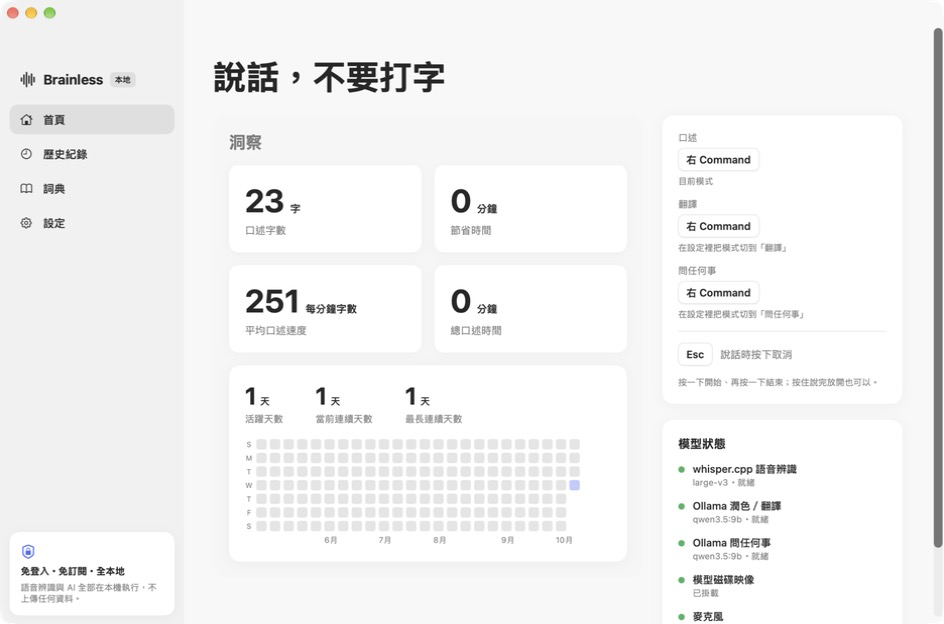
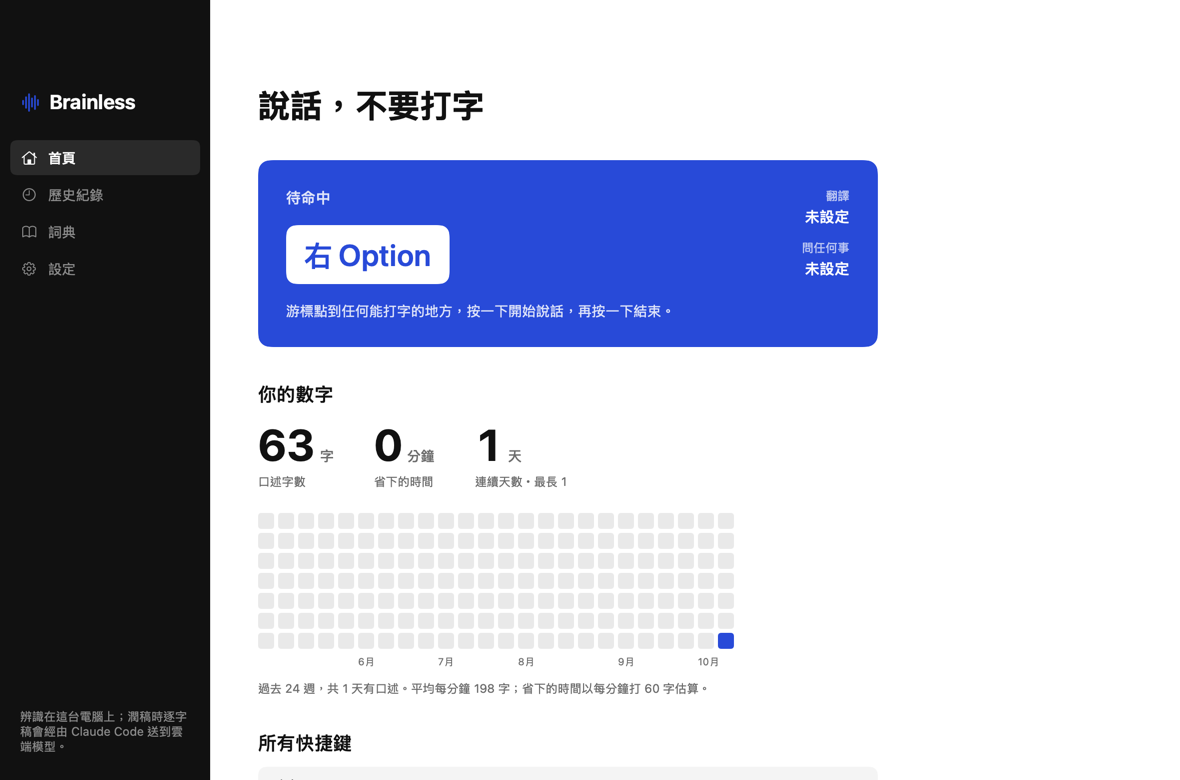
Rewrite README for the fork and add copyright line for fork changes
Documents the agent CLI backends and what they send off-device, per-mode
shortcuts, Typeless import, DMG releases and the SDK workaround, credits
the upstream project, and keeps the original MIT notice intact.

diff --git a/README.md b/README.md
@@ -1,6 +1,10 @@
 # Brainless
 
-**說話，不要打字。** macOS 語音聽寫 App：按一下快捷鍵說話，再按一下，整理好的文字就出現在游標那裡。語音辨識用 Whisper large-v3（whisper.cpp，Metal），在本機跑；潤稿用你電腦上已登入的 AI agent CLI（Claude Code 的 `claude -p` 或 Codex 的 `codex exec`），想完全離線也可以改用 Ollama 跑 Qwen。
+**說話，不要打字。** macOS 語音聽寫 App：按一下快捷鍵說話，再按一下，整理好的文字就出現在游標那裡。
+
+語音辨識用 Whisper large-v3（whisper.cpp，Metal），一律在本機跑。潤稿、翻譯和「問任何事」交給你電腦上已登入的 AI agent CLI（Claude Code 的 `claude -p`、Codex 的 `codex exec`）；想完全離線，也可以改用 Ollama 跑 Qwen。
+
+> Fork 自 [austin17022/brainless](https://github.com/austin17022/brainless)。這個 fork 加了 agent CLI 潤稿後端、每個模式各自的快捷鍵（含組合鍵）、從 Typeless 匯入詞典，並重新設計了主視窗。
 
 [English below](#english)
 
@@ -9,47 +13,63 @@
 ## 它會做什麼
 
 - **聽寫**：口語變成乾淨的文字，去掉「嗯」「那個」，補標點，簡體自動轉繁體。
-- **翻譯**：說中文，貼出英文、日文或韓文。
+- **翻譯**：說中文，貼出英文、日文、韓文或繁體中文。
 - **問任何事**：先選一段文字，再用說的下指令（改客氣一點、縮短、翻成英文），結果直接取代選取的文字。
-- **詞典**：把常講的專有名詞、人名、公司名放進去，辨識和潤稿會優先用這些寫法。
-- **歷史紀錄**：每次聽寫的結果都在本機，可複製、重新潤稿、刪除。
+- **每個模式各自的快捷鍵**：聽寫、翻譯、問任何事各自可以設好幾組，按哪一組就用哪個模式。
+- **詞典**：常講的專有名詞、人名、公司名放進去，辨識和潤稿會優先用這些寫法。可以從 Typeless 或文字／CSV／JSON 檔匯入。
+- **歷史紀錄**：每次聽寫的結果都存在本機，可複製、重新潤稿、刪除。
 - 任何 App 都能用（透過剪貼簿貼上，貼完會把原本的剪貼簿還原）。
 
 ## 需求
 
-- Apple Silicon Mac，macOS 14 以上，記憶體 16 GB 以上（建議 32 GB）。
+- Apple Silicon Mac，macOS 14 以上，記憶體 16 GB 以上。
 - 一個麥克風（Mac mini 沒有內建）。
-- 硬碟空間約 3.5 GB（Whisper 模型 3.1 GB）；改用 Ollama 潤稿的話再加約 7.6 GB（Qwen 3.5 9B）。
-- 潤稿需要下列其中一個：已登入的 [Claude Code](https://code.claude.com/docs/en/quickstart) 或 [Codex CLI](https://github.com/openai/codex)，或 [Ollama](https://ollama.com/download)。
+- 硬碟空間約 3.5 GB（Whisper 模型 3.1 GB）。
+- 潤稿需要下列其中一個：
+  - 已登入的 [Claude Code](https://code.claude.com/docs/en/quickstart)
+  - 已登入的 [Codex CLI](https://github.com/openai/codex)
+  - [Ollama](https://ollama.com/download)（另需約 7.6 GB 放 Qwen 3.5 9B，建議 32 GB 記憶體）
 
 ## 安裝
 
-1. 到 [Releases](../../releases) 下載 `Brainless-x.y.z.zip`，解壓縮後把 `Brainless.app` 拖進「應用程式」。
-2. 第一次打開：在 Finder 對 Brainless.app **按右鍵 › 打開**（這個版本沒有 Apple 開發者簽章，直接雙擊會被擋）。
-3. 依照系統提示允許**麥克風**，並到 系統設定 › 隱私權與安全性 › **輔助使用** 打開 Brainless。
+1. 到這個 repo 的 [Releases](../../releases) 下載 `Brainless-x.y.z.dmg`，打開後把 `Brainless.app` 拖到「應用程式」。還沒有 Release 的話，照下方「[自己編譯](#自己編譯)」做。（上游的 [Releases](https://github.com/austin17022/brainless/releases) 是原版，沒有這個 fork 的功能。）
+2. 第一次打開：在 Finder 對 Brainless.app **按右鍵 › 打開**（沒有 Apple 開發者簽章，直接雙擊會被擋）。
+3. 依照系統提示允許**麥克風**，並到 系統設定 › 隱私權與安全性 › **輔助使用** 打開 Brainless（沒有這個權限，快捷鍵不會有反應）。
 4. 主視窗會列出還缺什麼：
    - 安裝 whisper.cpp：在終端機執行 `brew install whisper-cpp`（需要 [Homebrew](https://brew.sh)）。
    - 按「下載 Whisper 模型」（3.1 GB）。
-   - 潤稿：裝好 Claude Code 或 Codex CLI 並登入一次，App 會自動偵測；兩個都沒有的話，安裝 [Ollama](https://ollama.com/download) 並按「下載 qwen3.5:9b」（約 7.6 GB）。
+   - 潤稿：裝好 Claude Code 或 Codex CLI 並登入一次，App 會自動偵測；都沒有的話，安裝 Ollama 再按「下載 qwen3.5:9b」。
 5. 燈都綠了，游標點到任何可以打字的地方，按一下快捷鍵（預設右 Option），說話，再按一下。
 
 ## 快捷鍵
 
-預設右 Option（Windows 鍵盤上是右邊的 Alt）。設定頁可以改成右 Command、右 Control、Fn、F18、F19，或按「自訂」然後按下任何你想用的鍵。按一下開始、再按一下結束；按住說完放開也可以；說話中按 Esc 取消。
+設定 › 快捷鍵，每個模式都可以「再加一組」，然後直接按下想用的鍵：
 
-## 麥克風保持喚醒
+- 幾顆修飾鍵一起按：`左 Shift＋左 Option`
+- 修飾鍵加一顆鍵：`左 Option＋Space`
+- 單一鍵：`F18`、`右 Option`
 
-USB 麥克風閒置幾分鐘就會被 macOS 休眠，醒來的前兩三秒是靜音。設定頁的「麥克風保持喚醒」預設「一直開著」，隨按隨有聲音；代價是選單列會有橘色麥克風點（沒按快捷鍵時不存、不送任何聲音）。可以改成「用完後再撐 10 分鐘」或「用完就關」。
+按一下開始、再按一下結束；按住說完放開也可以；說話中按 Esc 取消。比對是精確的：`左 Option` 和 `左 Shift＋左 Option` 可以分給兩個模式，按住 Option 時會等 0.2 秒看你是不是還要按 Shift；這段時間內打 ⌥＋字母（例如輸入特殊字元）不會觸發錄音。
 
 ## 潤稿後端
 
-設定頁「潤稿後端」預設「自動」，依序用偵測到的第一個：Claude Code → Codex → Ollama。偵測方式比照 `ollama launch`：先找 PATH（App 會向你的登入 shell 要 PATH，所以 nvm、`~/.local/bin` 裡的也找得到），再找各家的預設安裝位置。
+設定 › 潤稿 預設「自動」，依序用偵測到的第一個：Claude Code → Codex → Ollama。偵測方式比照 `ollama launch`：先找 PATH（App 會向你的 shell 要 PATH，所以 nvm、`~/.local/bin` 裡的也找得到），再找各家的預設安裝位置。
 
-- **Claude Code**：`claude -p`，預設模型 `haiku`，不開任何工具、不讀你的設定檔與 MCP、不留 session。一次約 3–8 秒。
-- **Codex**：`codex exec`，唯讀沙箱、不留 session、reasoning effort 設為 low；模型留空就用 `~/.codex/config.toml` 的設定。一次約 5–8 秒。
-- **Ollama**：本機跑 Qwen，模型常駐的話不到一秒，完全不連網。
+| 後端 | 怎麼呼叫 | 一次大約 |
+|---|---|---|
+| Claude Code | `claude -p`，預設模型 `haiku`；不給任何工具、不讀你的設定檔與 MCP、不留 session | 2–8 秒 |
+| Codex | `codex exec`，唯讀沙箱、不留 session、reasoning effort low；模型留空就用 `~/.codex/config.toml` | 5–8 秒 |
+| Ollama | 本機 HTTP API，模型常駐的話 | 1 秒內 |
 
 agent 在一個空資料夾（`~/Library/Application Support/Whispry/agent-workdir`）裡執行，讀不到任何專案檔。用量算在你自己的 Claude／ChatGPT 帳號上。
+
+## 從 Typeless 匯入詞典
+
+詞典 › 從 Typeless 匯入。Typeless 的詞典只存在它的雲端，Brainless 讀的是 Typeless 本機 HTTP 快取裡最近一次的詞典回應，不碰它的登入憑證；畫面上會顯示快取的時間。想要最新的清單，先在 Typeless 打開一次詞典頁再匯入。也可以用「從檔案匯入…」選文字檔（換行、逗號、頓號分隔）、CSV 或 JSON。
+
+## 麥克風保持喚醒
+
+USB 麥克風閒置幾分鐘就會被 macOS 休眠，醒來的前兩三秒是靜音。設定頁的「麥克風」預設「一直開著」，隨按隨有聲音；代價是選單列會有橘色麥克風點（沒按快捷鍵時不存、不送任何聲音）。可以改成「用完後再撐 10 分鐘」或「用完就關」。
 
 ## 模型放哪裡
 
@@ -70,14 +90,42 @@ App 啟動時會自動掛載。Ollama 的模型目錄請自行用 symlink 指到
 cp -R build/Brainless.app /Applications/
 ```
 
-程式結構：`Sources/` 下 `AppController`（狀態機與選單）、`HotkeyMonitor`（CGEventTap）、`AudioRecorder`（AVAudioEngine → 16 kHz WAV）、`WhisperServer`（whisper-server 子程序 + HTTP）、`RefineService`（潤稿後端切換）、`AgentCLI`（偵測與呼叫 claude／codex）、`OllamaClient`、`TextInserter`（剪貼簿 + ⌘V）、`OverlayPanel`（浮條）、`HubView` / `SetupViews`（SwiftUI 主視窗）、`Stores`（歷史、詞典）、`ModelSetup`（下載）、`VolumeManager`。
+Command Line Tools 附的 macOS 27 SDK 少了 SwiftUI 的 macro plugin，編譯會停在 `@State`。遇到的話改用 26.5 SDK：
+
+```
+SDK=/Library/Developer/CommandLineTools/SDKs/MacOSX26.5.sdk ./build.sh
+```
+
+打包成 DMG（版本號取自 `Info.plist` 的 `CFBundleShortVersionString`，`AppInfo.version` 也讀這裡）：
+
+```
+./release.sh              # 產生 build/Brainless-<版本>.dmg 並印出 SHA-256
+./release.sh --publish    # 另外用 gh 建立 GitHub Release v<版本>，附上 DMG
+```
+
+`--publish` 遇到已經存在的 tag 或 Release 會停下來，先把 `Info.plist` 的版本號往上加。
+
+程式結構（`Sources/`）：
+
+| 檔案 | 內容 |
+|---|---|
+| `AppController` | 狀態機、選單列 |
+| `HotkeyMonitor`、`Shortcuts` | CGEventTap、每個模式的快捷鍵與比對 |
+| `AudioRecorder` | AVAudioEngine → 16 kHz WAV |
+| `WhisperServer` | whisper-server 子程序 + HTTP |
+| `Refiner`、`AgentCLI`、`OllamaClient` | 潤稿後端切換、偵測與呼叫 claude／codex、Ollama |
+| `TextInserter` | 剪貼簿 + ⌘V |
+| `OverlayPanel` | 螢幕下方的浮條 |
+| `HubView`、`SetupViews`、`HubWindow` | SwiftUI 主視窗 |
+| `Stores`、`DictionaryImport` | 歷史、詞典、Typeless／檔案匯入 |
+| `ModelSetup`、`VolumeManager` | 模型下載、磁碟映像 |
 
 內部識別碼是 `app.whispry.mac`（專案原名 Whispry，為了不弄掉已授權的權限而保留）。簽章是 ad-hoc 加固定的 designated requirement，重新編譯不會讓輔助使用權限失效。
 
 ## 隱私
 
 - 聲音只送到本機的 `127.0.0.1:8178`（whisper-server），只聽本機。錄音檔辨識完就刪掉。
-- **潤稿用 Claude Code 或 Codex 時，辨識出來的文字（以及「問任何事」選取的文字）會透過該 CLI 送到 Anthropic／OpenAI 的雲端模型。** 要完全不離開這台電腦，請在設定頁把潤稿後端改成 Ollama（`127.0.0.1:11434`）。
+- **潤稿用 Claude Code 或 Codex 時，辨識出來的文字（以及「問任何事」選取的文字）會透過該 CLI 送到 Anthropic／OpenAI 的雲端模型。** 要完全不離開這台電腦，請在設定頁把潤稿後端改成 Ollama（`127.0.0.1:11434`）。主視窗左下角會顯示目前是哪一種。
 - 歷史紀錄與詞典存在 `~/Library/Application Support/Whispry/`，檔案權限 600。
 - 記錄檔不存逐字稿內容，只記字數與耗時。
 - App 本身沒有任何網路回報、沒有帳號、沒有訂閱。
@@ -87,21 +135,28 @@ cp -R build/Brainless.app /Applications/
 - 單次最長 10 分鐘。
 - 不吃 ⌘V 的 App（例如某些終端機）貼不上，可從選單「複製上一次的結果」手動貼。
 - 沒有 Apple 開發者簽章，第一次要右鍵打開。
+- 用 agent CLI 潤稿比 Ollama 常駐慢（每次多幾秒的 CLI 啟動與網路往返）。
 
 ---
 
 ## English
 
-**Speak, don't type.** A voice dictation app for macOS. Press a hotkey, talk, press again, and polished text lands at your cursor. Speech recognition runs locally on Whisper large-v3 (whisper.cpp, Metal). Cleanup, translation and "ask anything" run through a locally installed AI agent CLI (`claude -p` or `codex exec`, auto-detected the same way `ollama launch` finds integrations), or fully offline on Qwen via Ollama.
+**Speak, don't type.** A voice dictation app for macOS. Press a hotkey, talk, press again, and polished text lands at your cursor.
 
-**Features**: dictation with filler-word removal and punctuation, translation (zh → en/ja/ko), "ask anything" on selected text, a personal dictionary that steers both Whisper and the LLM, local history, a menu-bar app plus a dashboard window (insights, history, dictionary, settings), configurable hotkey (including "press any key to learn"), Esc to cancel, keep-mic-awake option for USB mics.
+Speech recognition always runs locally on Whisper large-v3 (whisper.cpp, Metal). Cleanup, translation and "ask anything" go through an AI agent CLI you are already signed in to (`claude -p` or `codex exec`), detected the way `ollama launch` finds integrations, or fully offline on Qwen via Ollama.
 
-**Requirements**: Apple Silicon, macOS 14+, 16 GB RAM (32 GB recommended), a microphone, ~3.5 GB disk, plus a signed-in Claude Code or Codex CLI — or Ollama (+7.6 GB) for fully offline use.
+> Forked from [austin17022/brainless](https://github.com/austin17022/brainless). This fork adds agent-CLI refine backends, per-mode shortcuts (including chords), dictionary import from Typeless, and a redesigned main window.
 
-**Install**: download the zip from Releases, drag `Brainless.app` to Applications, right-click › Open the first time (ad-hoc signed), grant Microphone and Accessibility, then follow the setup card in the main window: `brew install whisper-cpp`, download the Whisper model (3.1 GB), then install and sign in to Claude Code or Codex — or install [Ollama](https://ollama.com/download) and pull `qwen3.5:9b` (~7.6 GB). Pick the backend under Settings › 潤稿後端 (default: first one detected, Claude Code → Codex → Ollama).
+**Features**: dictation with filler-word removal and punctuation; translation (into English, Japanese, Korean or Traditional Chinese); "ask anything" on selected text; separate shortcuts per mode, several per mode, as modifier chords (Left Shift+Left Option), modifier+key (Left Option+Space) or single keys; a personal dictionary that steers both Whisper and the refiner, importable from Typeless or a text/CSV/JSON file; local history; Esc to cancel; keep-mic-awake option for USB mics.
 
-**Build**: `./build.sh` with Xcode Command Line Tools only. See `Sources/` for the structure described above.
+**Requirements**: Apple Silicon, macOS 14+, 16 GB RAM, a microphone, ~3.5 GB disk, plus a signed-in [Claude Code](https://code.claude.com/docs/en/quickstart) or [Codex CLI](https://github.com/openai/codex), or [Ollama](https://ollama.com/download) (+7.6 GB, 32 GB RAM recommended) for fully offline use.
 
-**Privacy**: audio goes only to local whisper-server (127.0.0.1:8178). With the Claude Code or Codex backend, the transcript (and any selected text in "ask" mode) is sent to Anthropic/OpenAI through that CLI; choose Ollama (127.0.0.1:11434) to keep everything on-device. History and dictionary live in `~/Library/Application Support/Whispry/` with 600 permissions; logs never contain transcripts; no telemetry, no account.
+**Install**: download `Brainless-x.y.z.dmg` from this repo's Releases and drag `Brainless.app` to Applications, or build it (below) if there is no release yet (upstream releases are the original app without these changes); right-click › Open the first time (ad-hoc signed), grant Microphone and Accessibility, then follow the setup list in the main window: `brew install whisper-cpp`, download the Whisper model (3.1 GB), and sign in to Claude Code or Codex (or install Ollama and pull `qwen3.5:9b`).
 
-MIT License.
+**Refine backends**: Settings › 潤稿 defaults to auto (first found of Claude Code → Codex → Ollama). Claude Code runs `claude -p` with `haiku`, no tools, no user settings or MCP, no session persistence; Codex runs `codex exec` in a read-only sandbox with low reasoning effort. Both run in an empty working directory. Expect a few seconds per request, versus under a second for a warm Ollama model.
+
+**Build**: `./build.sh` with Xcode Command Line Tools only; `./release.sh` packages `build/Brainless-<version>.dmg` (version from `Info.plist`), and `./release.sh --publish` also creates the GitHub release with `gh`. If the default macOS 27 SDK fails on `@State` (missing SwiftUI macro plugin), run `SDK=/Library/Developer/CommandLineTools/SDKs/MacOSX26.5.sdk ./build.sh`.
+
+**Privacy**: audio goes only to the local whisper-server (127.0.0.1:8178). With the Claude Code or Codex backend, the transcript (and any selected text in "ask" mode) is sent to Anthropic/OpenAI through that CLI; choose Ollama (127.0.0.1:11434) to keep everything on-device. The sidebar shows which applies. History and dictionary live in `~/Library/Application Support/Whispry/` with 600 permissions; logs never contain transcripts; no telemetry, no account.
+
+MIT License. Original work © Austin Chien; changes in this fork © Jacky97s.
